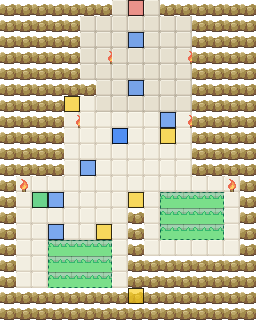
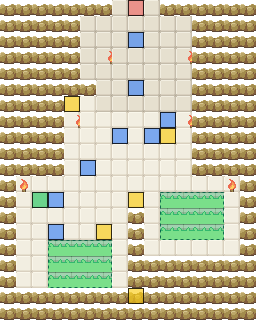
fix(dossier): move torch_bearer off ember's tile; guard future NPC stacking (T90)
jan-pimeja-suli (ember, hand-authored in the dreadpeak spec) and
npc-torch_bearer (dossier-spawned) both landed at tile (7,8). The
dossier merger's id-only duplication check missed it because the
ids differ. The two sprites stacked, the top one hid the bottom,
and interaction resolution was order-dependent.

- Move torch_bearer to tile (9,8) — same mid-chamber floor, walkable,
  no neighbor conflict.
- Regen dreadpeak_cavern.tmj/.tmx + preview PNG + world.json.
- Add tests/build-time/npc-position-collision.test.ts — fails at
  CI if any two NPC markers share (x, y) on the same region,
  covering both hand-authored and dossier-spawned NPCs.

Changed region(s): [[0.5625, 0.375, 0.625, 0.4688], [0.4375, 0.4062, 0.5, 0.4688]]

diff --git a/tests/build-time/npc-position-collision.test.ts b/tests/build-time/npc-position-collision.test.ts
@@ -1,0 +1,57 @@
+import { describe, it, expect } from 'vitest';
+import { readFileSync } from 'node:fs';
+import { resolve, dirname } from 'node:path';
+import { fileURLToPath } from 'node:url';
+
+const __dirname = dirname(fileURLToPath(import.meta.url));
+const WORLD = JSON.parse(
+    readFileSync(resolve(__dirname, '../../src/content/generated/world.json'), 'utf-8'),
+) as {
+    maps: Array<{
+        id: string;
+        objects: Array<{
+            layer: string;
+            name: string;
+            type: string;
+            x: number;
+            y: number;
+        }>;
+    }>;
+};
+
+/**
+ * T90: NPC position collision guard.
+ *
+ * Two NPC markers at the same pixel coordinate on the same map end up
+ * visually stacked — the top sprite hides the bottom one and the
+ * interaction hint fires on whichever the engine resolves first. This
+ * happened once: `jan-pimeja-suli` (hand-authored in the dreadpeak
+ * spec) and `npc-torch_bearer` (dossier-spawned) both landed at
+ * tile (7,8). The id-only duplication check in the dossier merger
+ * missed it because the IDs were different.
+ *
+ * This guard fails at build-time if any two NPC objects on the same
+ * region share an (x, y) — covering both hand-authored spec NPCs
+ * and dossier-spawned ones.
+ */
+
+describe('T90: NPC positions are unique per map', () => {
+    for (const map of WORLD.maps) {
+        it(`${map.id} has no overlapping NPC markers`, () => {
+            const npcs = map.objects.filter((o) => o.type === 'NPC');
+            const byPos = new Map<string, string[]>();
+            for (const npc of npcs) {
+                const key = `${npc.x},${npc.y}`;
+                if (!byPos.has(key)) byPos.set(key, []);
+                byPos.get(key)!.push(npc.name);
+            }
+            const collisions = [...byPos.entries()].filter(([, names]) => names.length > 1);
+            expect(
+                collisions,
+                `collisions in ${map.id}:\n${collisions
+                    .map(([pos, names]) => `  (${pos}) → ${names.join(', ')}`)
+                    .join('\n')}`,
+            ).toEqual([]);
+        });
+    }
+});
